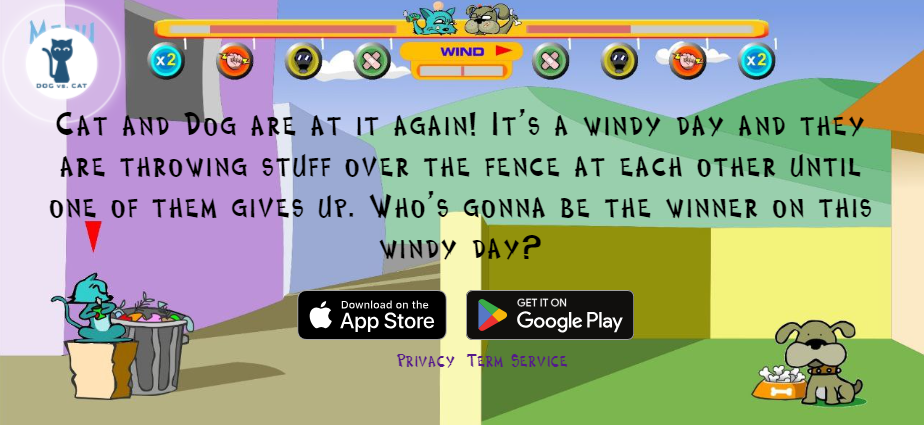
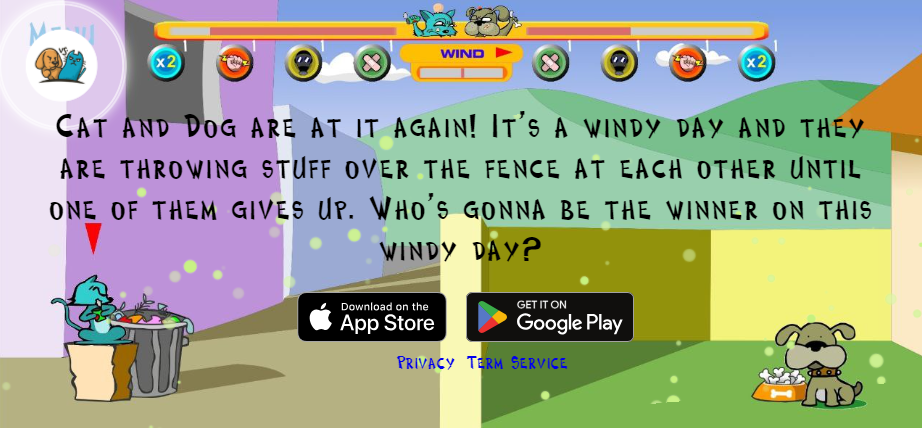
add images

diff --git a/src/pages/Start/index.tsx b/src/pages/Start/index.tsx
@@ -11,7 +11,8 @@ import ReactplosiveModal from '../../components/ReactplosiveModal/index'
 import './styles.css'
 import a_cat from '../../images/a_cat.png'
 import a_dog from '../../images/a_dog.png'
-import logo from '../../images/logo.png'
+
+const logo = "./logo.png"
 
 const URLS = {
   prod: 'catvsdog:/',
@@ -68,7 +69,7 @@ const Start: React.FC = () => {
         <div className="content">
           <div className="CatVsDogBanner">
             <img src={a_cat} alt="Cat" className="avatarCharacter" />
-            <span className="simpleText CosmicTwo">Cat vs. Dog</span>
+            <span className="simpleText CosmicTwo">Dog vs. Cat</span>
             <img src={a_dog} alt="dog" className="avatarCharacter" />
           </div>
           <h1 className="title CosmicTwo">
